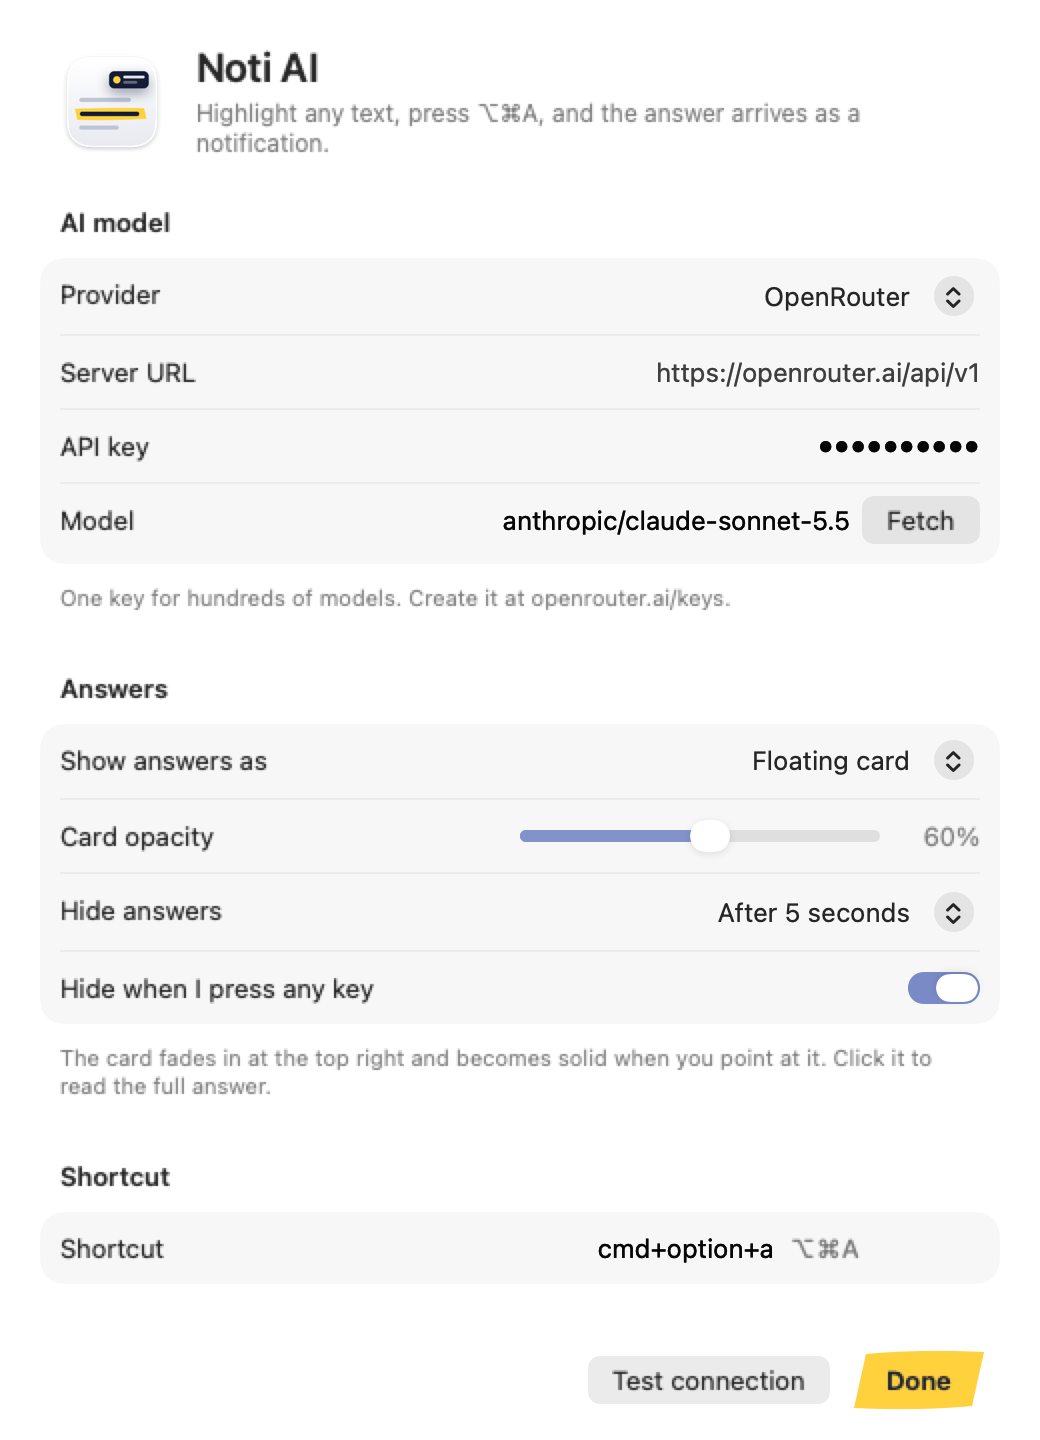
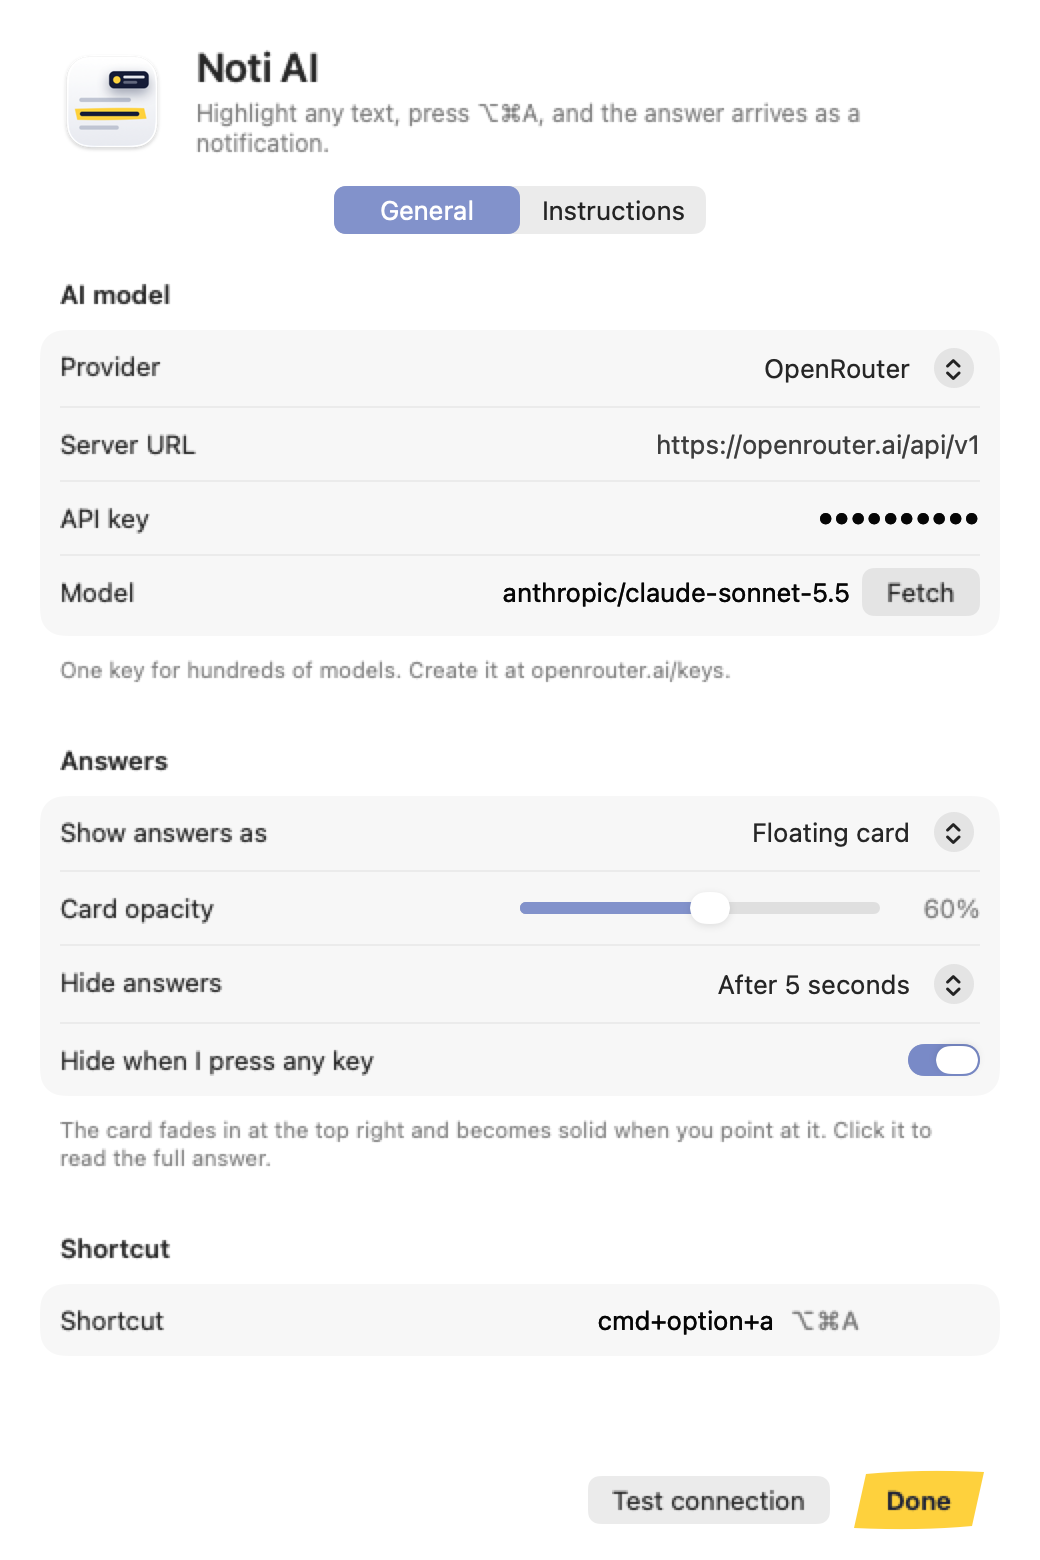
Move AI instructions to their own Settings tab
The instructions editor was at the bottom of a scrolling form and
collapsed by default, so it was easy to miss. Settings now has General
and Instructions tabs. Return no longer presses Done, so it adds a new
line in the instructions instead of closing the window.

diff --git a/Sources/NotiAI/UI/SettingsView.swift b/Sources/NotiAI/UI/SettingsView.swift
@@ -14,7 +14,7 @@ final class SettingsModel: ObservableObject {
     @Published var cardOpacity: Double
     @Published var dismissOnKey: Bool
     @Published var systemPrompt: String
-    @Published var showAdvanced = false
+    @Published var tab: SettingsTab = .general
     @Published var models: [String] = []
     @Published var status: (text: String, ok: Bool)?
     @Published var busy = false
@@ -132,6 +132,8 @@ final class SettingsModel: ObservableObject {
 
 }
 
+enum SettingsTab: Hashable { case general, instructions }
+
 private extension String {
     var trimmed: String { trimmingCharacters(in: .whitespacesAndNewlines) }
 }
@@ -139,8 +141,8 @@ private extension String {
 struct SettingsView: View {
     @ObservedObject var model: SettingsModel
     var onClose: () -> Void = {}
-    /// The window is 720pt tall and the form scrolls; snapshots can ask for more to show everything.
-    var height: CGFloat = 720
+    /// The window is 780pt tall and the form scrolls; snapshots can ask for more to show everything.
+    var height: CGFloat = 780
 
     private let hideChoices: [(Double, String)] = [
         (3, "After 3 seconds"), (5, "After 5 seconds"), (8, "After 8 seconds"),
@@ -150,6 +152,64 @@ struct SettingsView: View {
     var body: some View {
         VStack(spacing: 0) {
             header
+            Picker("Section", selection: $model.tab) {
+                Text("General").tag(SettingsTab.general)
+                Text("Instructions").tag(SettingsTab.instructions)
+            }
+            .pickerStyle(.segmented)
+            .labelsHidden()
+            .fixedSize()
+            .padding(.top, 10)
+            .padding(.bottom, 2)
+
+            switch model.tab {
+            case .general: general
+            case .instructions: instructions
+            }
+
+            footer
+        }
+        .frame(width: 520, height: height)
+        // Save as you go, like System Settings.
+        .onChange(of: model.provider) { _ in model.autosave() }
+        .onChange(of: model.apiKey) { _ in model.autosave() }
+        .onChange(of: model.model) { _ in model.autosave() }
+        .onChange(of: model.baseURL) { _ in model.autosave() }
+        .onChange(of: model.effort) { _ in model.autosave() }
+        .onChange(of: model.dismissAfter) { _ in model.autosave() }
+        .onChange(of: model.answerStyle) { _ in model.autosave() }
+        .onChange(of: model.cardOpacity) { _ in model.autosave() }
+        .onChange(of: model.dismissOnKey) { _ in model.autosave() }
+        .onChange(of: model.systemPrompt) { _ in model.autosave() }
+    }
+
+    private var instructions: some View {
+        VStack(alignment: .leading, spacing: 10) {
+            Text("Tell the AI how to answer. The text you highlight is sent after these instructions.")
+                .font(.system(size: 12))
+                .foregroundStyle(.secondary)
+            TextEditor(text: $model.systemPrompt)
+                .font(.system(size: 13))
+                .lineSpacing(2)
+                .scrollContentBackground(.hidden)
+                .padding(8)
+                .background(RoundedRectangle(cornerRadius: 8).fill(Color(nsColor: .textBackgroundColor)))
+                .overlay(RoundedRectangle(cornerRadius: 8).stroke(Color.secondary.opacity(0.25)))
+            HStack(alignment: .top) {
+                Text("Ideas: always answer in Chinese, explain like I'm new to programming, or reply with only a translation.")
+                    .font(.system(size: 11))
+                    .foregroundStyle(.secondary)
+                    .fixedSize(horizontal: false, vertical: true)
+                Spacer(minLength: 16)
+                Button("Reset to default") { model.systemPrompt = Config.defaultSystemPrompt }
+                    .disabled(model.systemPrompt == Config.defaultSystemPrompt)
+            }
+        }
+        .padding(.horizontal, 28)
+        .padding(.top, 14)
+    }
+
+    private var general: some View {
             Form {
                 Section {
                     Picker("Provider", selection: $model.provider) {
@@ -243,55 +303,9 @@ struct SettingsView: View {
                         }
                     }
                 }
-
-                Section {
-                    DisclosureGroup("Instructions for the AI", isExpanded: $model.showAdvanced) {
-                        VStack(alignment: .leading, spacing: 8) {
-                            TextEditor(text: $model.systemPrompt)
-                                .font(.system(size: 12))
-                                .frame(height: 150)
-                                .scrollContentBackground(.hidden)
-                                .padding(6)
-                                .background(RoundedRectangle(cornerRadius: 6)
-                                    .fill(Color(nsColor: .textBackgroundColor)))
-                                .overlay(RoundedRectangle(cornerRadius: 6)
-                                    .stroke(Color.secondary.opacity(0.25)))
-                            HStack {
-                                Text("Your highlighted text is sent after these instructions.")
-                                    .font(.system(size: 11))
-                                    .foregroundStyle(.secondary)
-                                Spacer()
-                                Button("Reset to default") { model.systemPrompt = Config.defaultSystemPrompt }
-                                    .disabled(model.systemPrompt == Config.defaultSystemPrompt)
-                            }
-                        }
-                        .padding(.top, 6)
-                    }
-                } header: {
-                    Text("Advanced")
-                } footer: {
-                    Text("For example: always answer in Chinese, explain like I'm new to programming, or reply with only a translation.")
-                        .font(.system(size: 11))
-                        .foregroundStyle(.secondary)
-                }
             }
             .formStyle(.grouped)
             .scrollContentBackground(.hidden)
-            // Save as you go, like System Settings.
-            .onChange(of: model.provider) { _ in model.autosave() }
-            .onChange(of: model.apiKey) { _ in model.autosave() }
-            .onChange(of: model.model) { _ in model.autosave() }
-            .onChange(of: model.baseURL) { _ in model.autosave() }
-            .onChange(of: model.effort) { _ in model.autosave() }
-            .onChange(of: model.dismissAfter) { _ in model.autosave() }
-            .onChange(of: model.answerStyle) { _ in model.autosave() }
-            .onChange(of: model.cardOpacity) { _ in model.autosave() }
-            .onChange(of: model.dismissOnKey) { _ in model.autosave() }
-            .onChange(of: model.systemPrompt) { _ in model.autosave() }
-
-            footer
-        }
-        .frame(width: 520, height: height)
     }
 
     private var header: some View {
@@ -329,7 +343,6 @@ struct SettingsView: View {
                 .disabled(model.busy)
             Button("Done") { if model.commitHotkey() { onClose() } }
                 .buttonStyle(MarkerButtonStyle())
-                .keyboardShortcut(.defaultAction)
         }
         .padding(.horizontal, 28)
         .padding(.vertical, 16)

diff --git a/Sources/NotiAI/App/main.swift b/Sources/NotiAI/App/main.swift
@@ -86,8 +86,8 @@ enum Snapshot {
             render(SettingsView(model: SettingsModel(cfg)), appearance, dir.appendingPathComponent("settings-\(name).png"))
             render(answer, appearance, dir.appendingPathComponent("answer-\(name).png"))
             let advanced = SettingsModel(cfg)
-            advanced.showAdvanced = true
-            render(SettingsView(model: advanced, height: 1080), appearance, dir.appendingPathComponent("settings-advanced-\(name).png"))
+            advanced.tab = .instructions
+            render(SettingsView(model: advanced), appearance, dir.appendingPathComponent("settings-instructions-\(name).png"))
             render(ToastView(title: "Why is the sky blue?", message: "Sunlight scatters off air molecules, and shorter blue wavelengths scatter far more than red ones, so blue light reaches your eyes from every direction.", isError: false),
                    appearance, dir.appendingPathComponent("card-\(name).png"))
         }

diff --git a/Sources/NotiAI/UI/Windows.swift b/Sources/NotiAI/UI/Windows.swift
@@ -16,7 +16,7 @@ final class SettingsWindowController: NSObject, NSWindowDelegate {
         let view = SettingsView(model: model) { [weak self] in self?.window?.close() }
 
         if window == nil {
-            let w = NSWindow(contentRect: NSRect(x: 0, y: 0, width: 520, height: 720),
+            let w = NSWindow(contentRect: NSRect(x: 0, y: 0, width: 520, height: 780),
                              styleMask: [.titled, .closable, .fullSizeContentView],
                              backing: .buffered, defer: false)
             w.titlebarAppearsTransparent = true

diff --git a/README.md b/README.md
@@ -39,7 +39,7 @@ Noti AI sits in your menu bar. Select a word, an error message, a sentence in an
 
 ## How answers look
 
-Pick one in **Settings › Answers**.
+Pick one in **Settings › General › Answers**.
 
 **macOS notification.** A regular notification banner, like any other app's. It hides itself after a few seconds, and clicking it opens the full answer.
 
@@ -80,7 +80,7 @@ Then highlight some text and press <kbd>⌥</kbd> <kbd>⌘</kbd> <kbd>A</kbd>.
 
 Click **Fetch** next to the model field to list the models a provider offers. Each provider remembers its own key and model, so switching back and forth doesn't lose anything.
 
-To change how the AI answers, open **Advanced › Instructions for the AI** at the bottom of Settings. **Reset to default** brings back the original instructions.
+To change how the AI answers, open the **Instructions** tab in Settings and write your own. **Reset to default** brings back the original instructions.
 
 <p align="center">
   <img src="docs/settings.png" width="460" alt="The Settings window">
